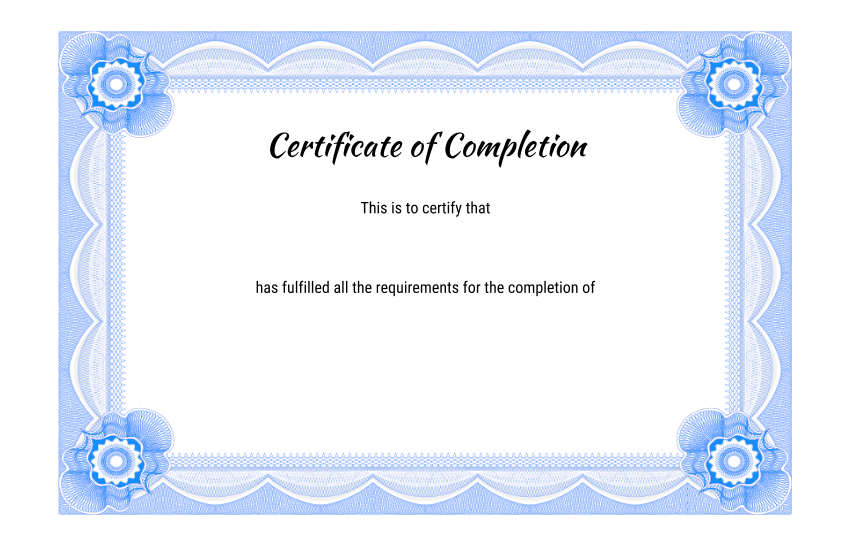
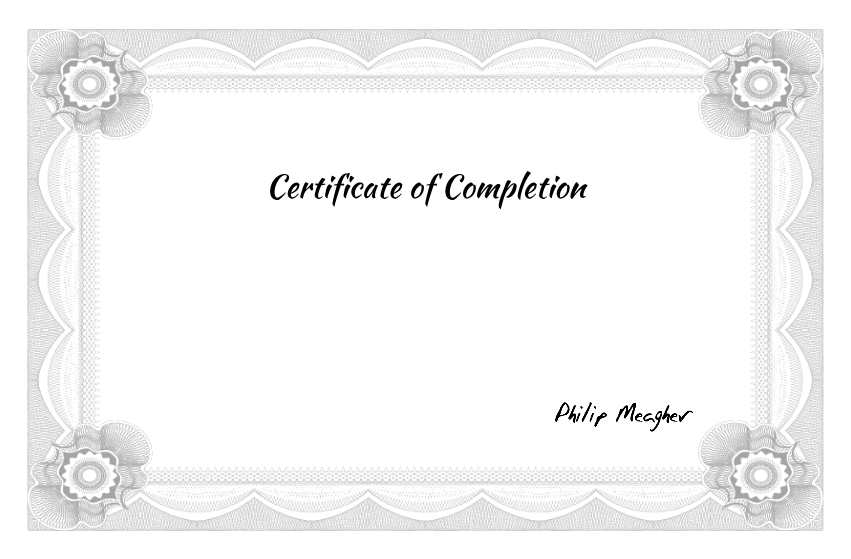
Added better styles and background image to the completion certificate

diff --git a/app/pdfs/completion_certificate.rb b/app/pdfs/completion_certificate.rb
@@ -1,25 +1,62 @@
 class CompletionCertificate < Prawn::Document
 
   def initialize(cert, view)
-    super(page_layout: :landscape, page_size: [560, 834], background: "#{Rails.root}/app/assets/images/cert_background.png", :margin => [20, 100])
+    super(page_layout: :landscape, page_size: [560, 852], background: "#{Rails.root}/app/assets/images/cert_background.png", :margin => [20, 100])
     @cert = cert
     @view = view
+    logo
+    line_1
     user_name
+    line_2
     course_name
+    date
+    signature
   end
 
   def logo
+    move_down 80
     logopath =  "#{Rails.root}/app/assets/images/logo_withtext+thin.png"
-    image logopath, :width => 650, :height => 100
-    move_down 10
+    y_position = cursor
+    image logopath, :width => 250, :height => 40, at: [200, y_position]
+  end
+
+  def line_1
+    move_down 112
+    font_size 16
+    text "This is to certify that", align: :center, style: :italic
   end
 
   def user_name
-    text_box "#{@cert.user.full_name}", at: [280, 290], height: 20, width: 200, align: :center
+    move_down 17
+    font_size 24
+    #text "#{@cert.user.full_name}", align: :center
+    text "Johnny Meagher", align: :center
+  end
+
+  def line_2
+    move_down 20
+    font_size 16
+    text "has fulfilled all the requirements for the completion of", align: :center, style: :italic
   end
 
   def course_name
-    text_box "#{@cert.subject_course.name}", at: [280, 200], height: 20, width: 200, align: :center
+    move_down 20
+    font_size 24
+    #text "#{@cert.subject_course.name}", align: :center
+    text "Risk Management in Investment Management", align: :center
   end
 
+  def date
+    move_down 75
+    font_size 10
+    y_position = cursor
+    #draw_text "Date issued: #{@cert.completion_certificate.created_at}", at: [60, y_position]
+
+  end
+
+  def signature
+    font_size 10
+    y_position = cursor
+    draw_text "Philip Meagher - CEO at LearnSignal", at: [430, y_position]
+  end
 end
